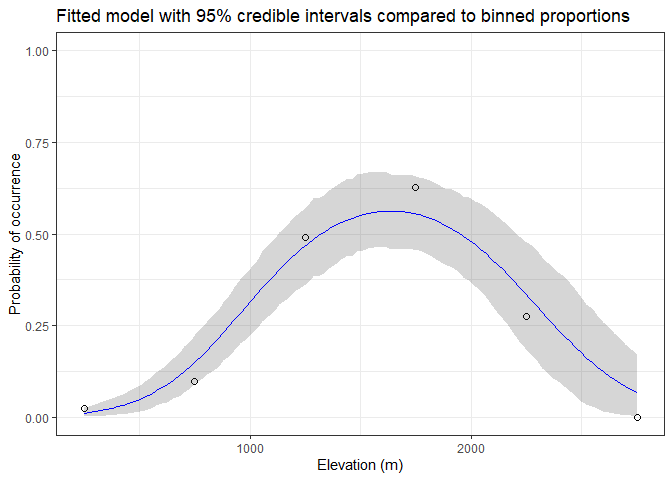
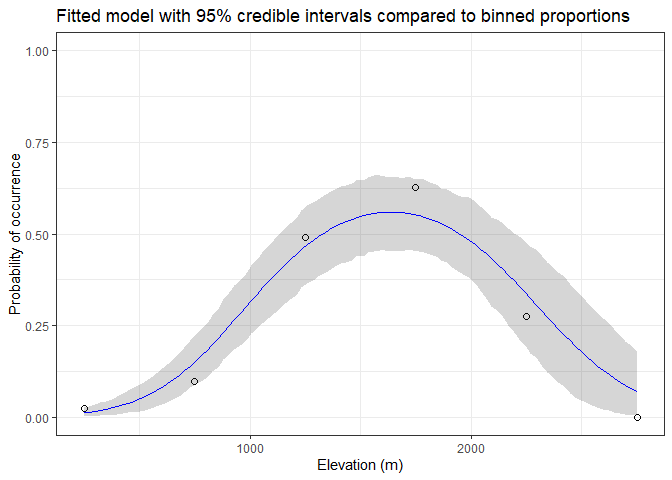
More concise calculation of proportion

diff --git a/13_3_swissbbs.md b/13_3_swissbbs.md
@@ -17,7 +17,6 @@ algorithm, i.e. rescaling parameters.
 ``` r
 library(ggplot2)
 library(dplyr)
-library(tidyr)
 theme_set(theme_bw())
 ```
 
@@ -27,8 +26,7 @@ Switzerland.
 ``` r
 swissdem <- read.csv("data/switzerland_tidy.csv")
 
-swissdem %>% 
-    ggplot() +
+ggplot(swissdem) +
     geom_raster(aes(x=x, y=y, fill=Elev_m)) +
     scale_fill_gradientn(colors=terrain.colors(22), name="Elevation (m)") + 
     coord_quickmap() +
@@ -89,8 +87,7 @@ willowtit %>%
 Plot the data
 
 ``` r
-willowtit %>% 
-    ggplot() +
+ggplot(willowtit) +
     geom_jitter(aes(x=elev, y=y.1), shape=1, size=2, height=0.01) +
     labs(x="Elevation (m)", 
          y="Occurrence", 
@@ -99,40 +96,36 @@ willowtit %>%
 
 ![](13_3_swissbbs_files/figure-gfm/unnamed-chunk-5-1.png)<!-- -->
 
-… also summarized by binning into 500 m increments. This is a very long
-tidyverse sequence to calculate proportions. Does anybody know a better
-tidyverse way?
+… also summarized by binning into 500 m increments. We set up bins, then
+calculate the proportion present in each bin, then the midpoint of the
+bin. The mean of a binary variable (0,1) is the proportion.
 
 ``` r
 freq_table <-
     willowtit %>% 
-    group_by(bin=cut(elev, breaks=seq(0, 3000, by=500)), y.1) %>% 
-    count(name="n") %>% 
-    ungroup() %>% 
-    pivot_wider(names_from=y.1, values_from=n, values_fill=0) %>% 
-    mutate(p=`1`/(`0`+`1`)) %>% 
+    group_by(bin=cut(elev, breaks=seq(0, 3000, by=500))) %>% 
+    summarize(p=mean(y.1)) %>% 
     mutate(mid=seq(250, 3000, by=500)) 
 freq_table
 ```
 
-    ## # A tibble: 6 x 5
-    ##   bin               `0`   `1`      p   mid
-    ##   <fct>           <int> <int>  <dbl> <dbl>
-    ## 1 (0,500]            40     1 0.0244   250
-    ## 2 (500,1e+03]        65     7 0.0972   750
-    ## 3 (1e+03,1.5e+03]    25    24 0.490   1250
-    ## 4 (1.5e+03,2e+03]    16    27 0.628   1750
-    ## 5 (2e+03,2.5e+03]    21     8 0.276   2250
-    ## 6 (2.5e+03,3e+03]     3     0 0       2750
+    ## # A tibble: 6 x 3
+    ##   bin                  p   mid
+    ##   <fct>            <dbl> <dbl>
+    ## 1 (0,500]         0.0244   250
+    ## 2 (500,1e+03]     0.0972   750
+    ## 3 (1e+03,1.5e+03] 0.490   1250
+    ## 4 (1.5e+03,2e+03] 0.628   1750
+    ## 5 (2e+03,2.5e+03] 0.276   2250
+    ## 6 (2.5e+03,3e+03] 0       2750
 
 Plot including the binned proportion and a smoother on the occurrence
 data (i.e. the zeros and ones) for comparison
 
 ``` r
-willowtit %>% 
-    ggplot() +
-    geom_jitter(aes(x=elev, y=y.1), shape=1, size=2, height=0.01) +
-    geom_smooth(aes(x=elev, y=y.1), size=0.5, se=FALSE) +
+ggplot() +
+    geom_jitter(data=willowtit, aes(x=elev, y=y.1), shape=1, size=2, height=0.01) +
+    geom_smooth(data=willowtit, aes(x=elev, y=y.1), size=0.5, se=FALSE) +
     geom_line(data=freq_table, aes(x=mid, y=p), col=2) +
     geom_point(data=freq_table, aes(x=mid, y=p), shape=1, size=2, col=2) +
     coord_cartesian(ylim=c(-0.01,1.01)) +
@@ -363,8 +356,7 @@ predp <- p_pred_quadratic(fit_quadratic$par[1], fit_quadratic$par[2],
                           fit_quadratic$par[3]*1e-06, swissdem$Elev_m)
 willowtit_ras <- cbind(swissdem[,1:2],p=predp)
 
-willowtit_ras %>% 
-    ggplot() +
+ggplot(willowtit_ras) +
     geom_raster(aes(x=x, y=y, fill=p)) +
     scale_fill_gradientn(colors=heat.colors(14), name="Probability") + 
     coord_quickmap() +
@@ -435,11 +427,11 @@ print(summary(stanfit)[,c("mean","sd","n_eff","Rhat")], digits=3)
 ```
 
     ##                    mean       sd n_eff Rhat
-    ## (Intercept)   -6.62e+00 9.96e-01   965    1
-    ## elev           8.40e-03 1.47e-03   935    1
-    ## I(elev^2)     -2.57e-06 5.02e-07   950    1
-    ## mean_PPD       2.85e-01 3.83e-02  2624    1
-    ## log-posterior -1.16e+02 1.25e+00  1087    1
+    ## (Intercept)   -6.55e+00 9.65e-01   943 1.00
+    ## elev           8.29e-03 1.43e-03   922 1.01
+    ## I(elev^2)     -2.53e-06 4.95e-07   930 1.01
+    ## mean_PPD       2.84e-01 3.75e-02  2349 1.00
+    ## log-posterior -1.16e+02 1.25e+00  1054 1.00
 
 Credible intervals
 
